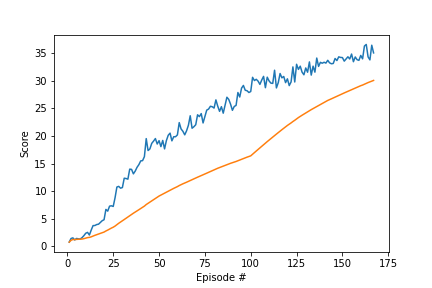
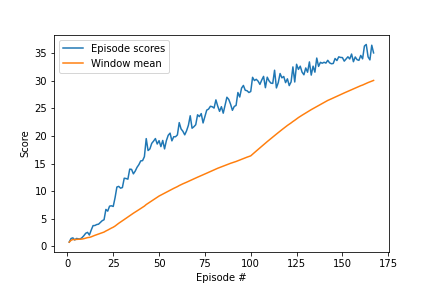
Update legend of scores plot for P2 - Continuous Control

Changed region(s): [[0.1204, 0.125, 0.3912, 0.2812]]

diff --git a/p2_continuous_control/main.py b/p2_continuous_control/main.py
@@ -150,8 +150,9 @@ if __name__ == '__main__':
     # plot the scores
     fig = plt.figure()
     ax = fig.add_subplot(111)
-    plt.plot(np.arange(1, len(scores) + 1), scores)
-    plt.plot(np.arange(1, len(scores) + 1), scores_window_means, label='mean')
+    plt.plot(np.arange(1, len(scores) + 1), scores, label='Episode scores')
+    plt.plot(np.arange(1, len(scores) + 1), scores_window_means, label='Window mean')
+    plt.legend()
     plt.ylabel('Score')
     plt.xlabel('Episode #')
     plt.show()
